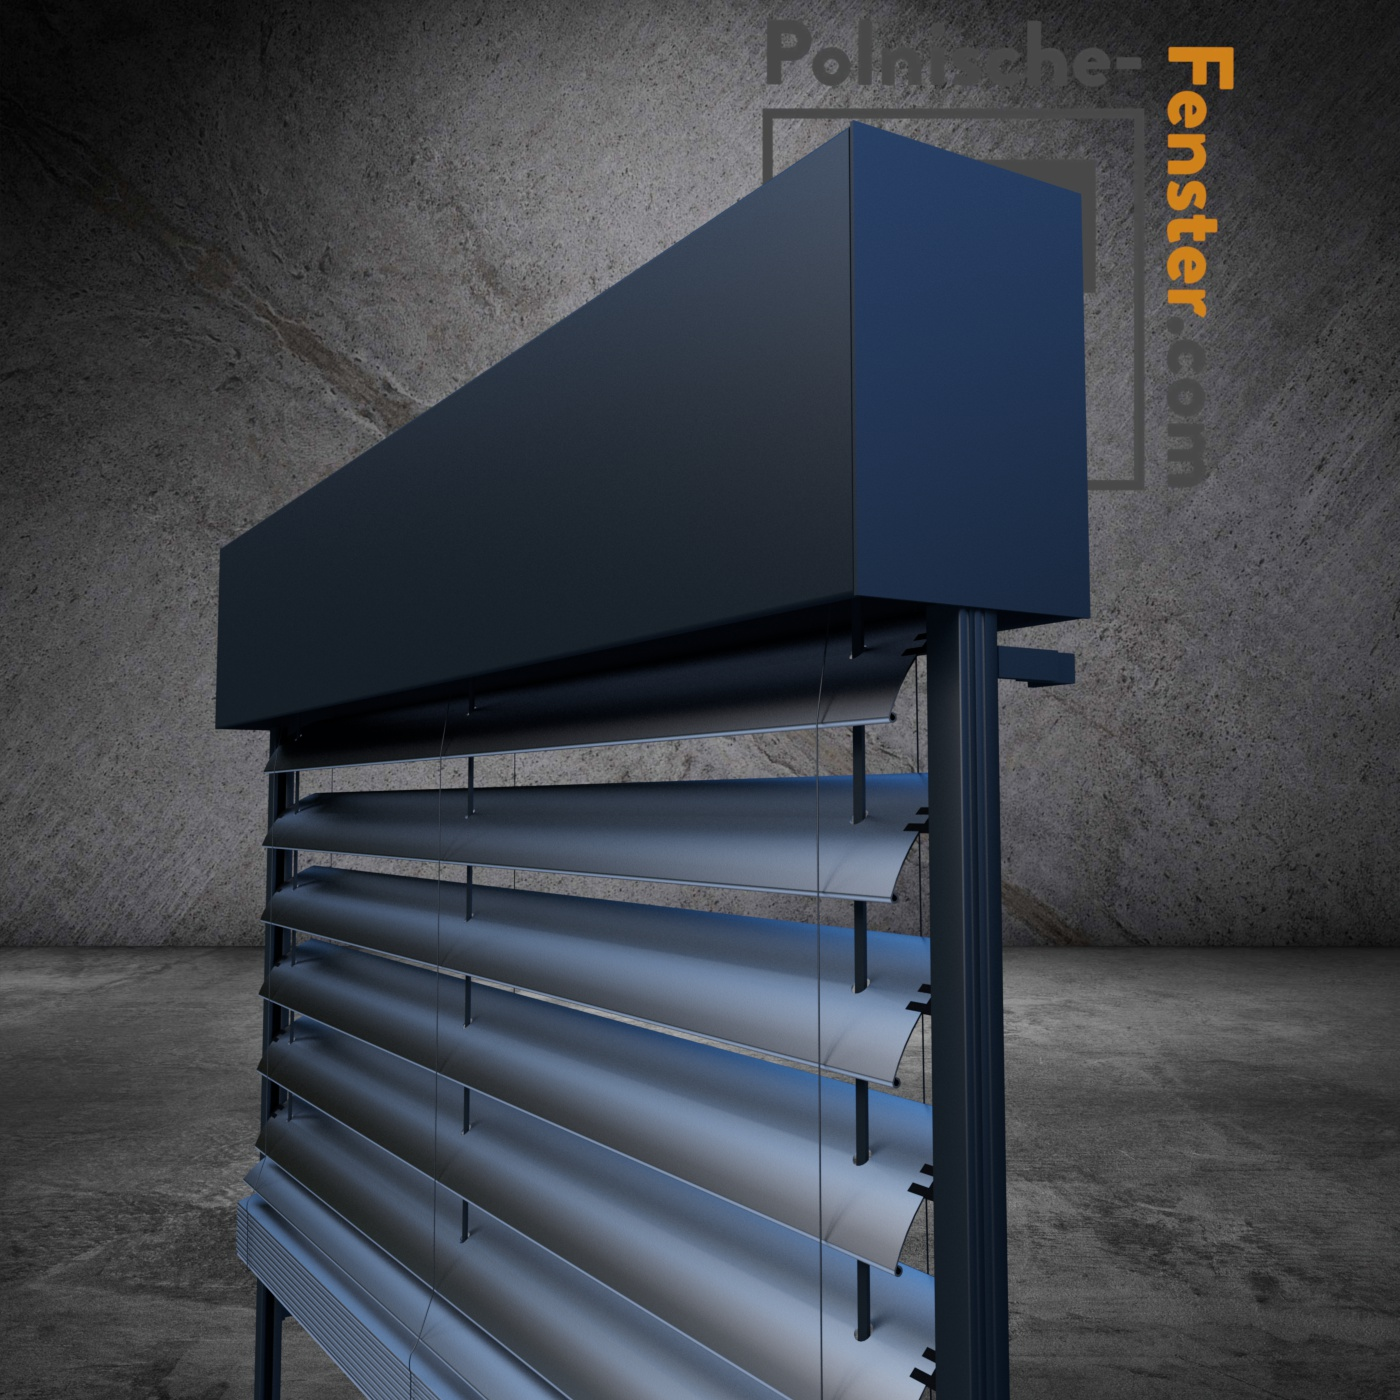
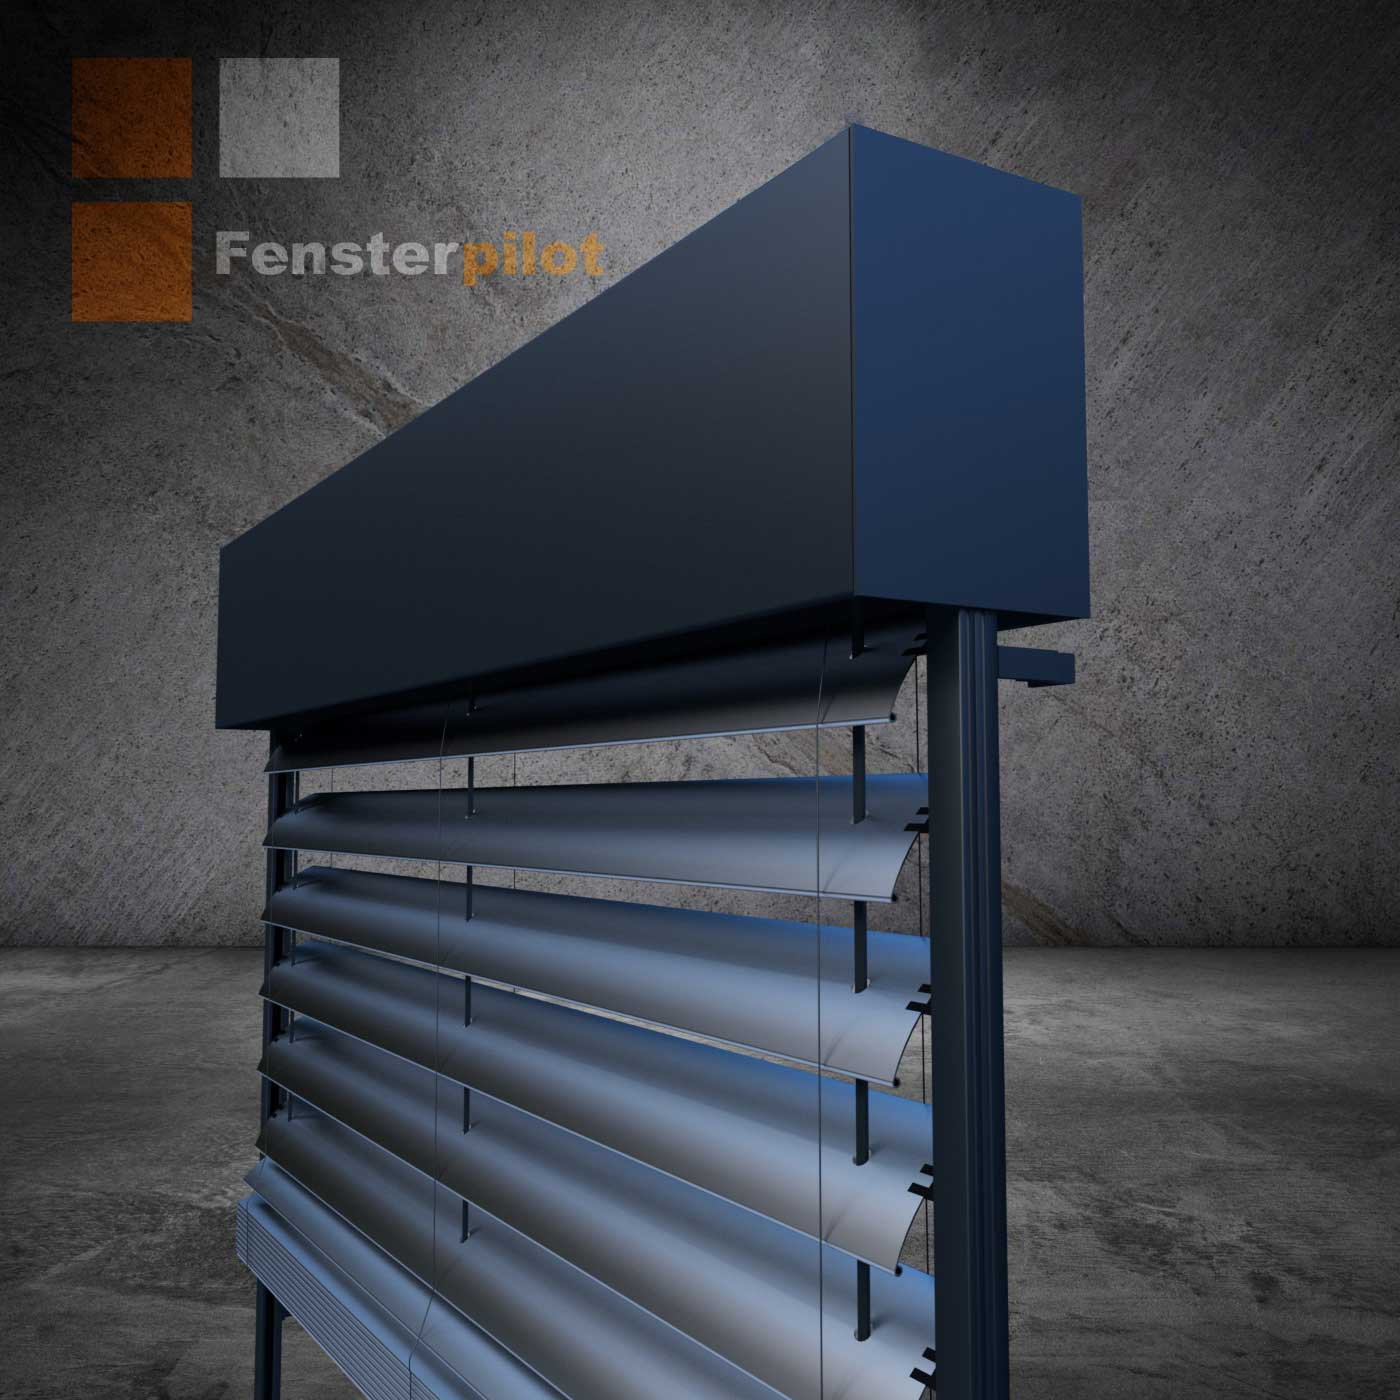
pics

Changed region(s): [[0.0307, 0.0307, 0.43, 0.2457], [0.7064, 0.0307, 0.8907, 0.3379], [0.5221, 0.0, 0.7371, 0.1229]]

diff --git a/pages/products/skp.js b/pages/products/skp.js
@@ -51,21 +51,7 @@ function Skp() {
     <ProductLink linktext="Aufsatz Rollläden" href="/products/ael" opis="Aluminium Lamellen, Motorsteuerung" pic="/pics/producticons/ael.png"/>,
   ];
 
-  const together = [
-    <ProductLink linktext="Schüco CT 70 Classic" href="/products/ct70" opis="Kunststoff 5 Kammer, 70 mm Einbautiefe" pic="/pics/producticons/ct70_classic.png"/>,
-    <ProductLink linktext="Schüco CT 70 Rondo" href="/products/ct70rondo" opis="Kunststoff 5 Kammer, 70 mm Einbautiefe" pic="/pics/producticons/ct70_rondo.png"/>,
-    <ProductLink linktext="Schüco Living MD" href="/products/living" opis="Kunststoff 7 Kammer, 82 mm Einbautiefe" pic="/pics/producticons/living.png"/>,
-    <ProductLink linktext="Kömmerling 70 AD" href="/products/k70" opis="Kunststoff 5 Kammer, 70 mm Einbautiefe" pic="/pics/producticons/k70.png"/>,
-    <ProductLink linktext="Kömmerling 76 AD" href="/products/k76ad" opis="Kunststoff 5 Kammer, 76 mm Einbautiefe" pic="/pics/producticons/k76_ad.png"/>,
-    <ProductLink linktext="Kömmerling 76 MD" href="/products/k76md" opis="Kunststoff 6 Kammer, 76 mm Einbautiefe" pic="/pics/producticons/k76_md.png"/>,
-    <ProductLink linktext="Kömmerling 88 MD" href="/products/k88" opis="Kunststoff 7 Kammer, 88 mm Einbautiefe" pic="/pics/producticons/k88.png"/>,
-    <ProductLink linktext="Ponzio PE 68N" href="/products/pe68" opis="Aluminium Ponzio PE 68" pic="/pics/producticons/pe68.png"/>,
-    <ProductLink linktext="Ponzio PE 78N" href="/products/pe78" opis="Aluminium Ponzio PE 78" pic="/pics/producticons/pe78.png"/>,
-    <ProductLink linktext="Aluprof MB 70 HI" href="/products/mb70" opis="Aluminium Aluprof MB 70" pic="/pics/producticons/mb70.png"/>,
-    <ProductLink linktext="Aluprof MB 86 SI" href="/products/mb86" opis="Aluminium Aluprof MB 86" pic="/pics/producticons/mb86.png"/>,
-    <ProductLink linktext="Schüco AWS 75 SI" href="/products/aws75" opis="Aluminium Schüco AWS 75" pic="/pics/producticons/aws75.png"/>,
-    <ProductLink linktext="Schüco AWS 90 SI" href="/products/aws90" opis="Aluminium Schüco AWS 90" pic="/pics/producticons/aws90.png"/>,
-  ];
+ 
 
   
   
@@ -74,7 +60,7 @@ function Skp() {
 
     <Fragment>
       <Head>
-        <title>Polnische Fenster Vorsatzrollladen SKP</title>
+        <title>Fensterpilot Vorsatzrollladen SKP</title>
         <meta name='description'
               content='Aluprof Vorsatzrollladen SKP Viertelrund. 3d Visualisierung'
         />
@@ -122,12 +108,7 @@ function Skp() {
         {similar}
       </Carousel>
 
-      <Carousel
-        show={Math.floor((size.width - 50) / 186)}
-        title="Unsere Fenster:"
-      >
-        {together}
-      </Carousel>
+      
      
     </Fragment>
   );

diff --git a/pages/products/sk.js b/pages/products/sk.js
@@ -53,21 +53,7 @@ function Sk() {
     <ProductLink linktext="Aufsatz Rollläden" href="/products/ael" opis="Aluminium Lamellen, Motorsteuerung" pic="/pics/producticons/ael.png"/>,
   ];
 
-  const together = [
-    <ProductLink linktext="Schüco CT 70 Classic" href="/products/ct70" opis="Kunststoff 5 Kammer, 70 mm Einbautiefe" pic="/pics/producticons/ct70_classic.png"/>,
-    <ProductLink linktext="Schüco CT 70 Rondo" href="/products/ct70rondo" opis="Kunststoff 5 Kammer, 70 mm Einbautiefe" pic="/pics/producticons/ct70_rondo.png"/>,
-    <ProductLink linktext="Schüco Living MD" href="/products/living" opis="Kunststoff 7 Kammer, 82 mm Einbautiefe" pic="/pics/producticons/living.png"/>,
-    <ProductLink linktext="Kömmerling 70 AD" href="/products/k70" opis="Kunststoff 5 Kammer, 70 mm Einbautiefe" pic="/pics/producticons/k70.png"/>,
-    <ProductLink linktext="Kömmerling 76 AD" href="/products/k76ad" opis="Kunststoff 5 Kammer, 76 mm Einbautiefe" pic="/pics/producticons/k76_ad.png"/>,
-    <ProductLink linktext="Kömmerling 76 MD" href="/products/k76md" opis="Kunststoff 6 Kammer, 76 mm Einbautiefe" pic="/pics/producticons/k76_md.png"/>,
-    <ProductLink linktext="Kömmerling 88 MD" href="/products/k88" opis="Kunststoff 7 Kammer, 88 mm Einbautiefe" pic="/pics/producticons/k88.png"/>,
-    <ProductLink linktext="Ponzio PE 68N" href="/products/pe68" opis="Aluminium Ponzio PE 68" pic="/pics/producticons/pe68.png"/>,
-    <ProductLink linktext="Ponzio PE 78N" href="/products/pe78" opis="Aluminium Ponzio PE 78" pic="/pics/producticons/pe78.png"/>,
-    <ProductLink linktext="Aluprof MB 70 HI" href="/products/mb70" opis="Aluminium Aluprof MB 70" pic="/pics/producticons/mb70.png"/>,
-    <ProductLink linktext="Aluprof MB 86 SI" href="/products/mb86" opis="Aluminium Aluprof MB 86" pic="/pics/producticons/mb86.png"/>,
-    <ProductLink linktext="Schüco AWS 75 SI" href="/products/aws75" opis="Aluminium Schüco AWS 75" pic="/pics/producticons/aws75.png"/>,
-    <ProductLink linktext="Schüco AWS 90 SI" href="/products/aws90" opis="Aluminium Schüco AWS 90" pic="/pics/producticons/aws90.png"/>,
-  ];
+  
 
   
   return (
@@ -75,7 +61,7 @@ function Sk() {
 
     <Fragment>
       <Head>
-        <title>Polnische Fenster Vorsatzrollladen SK</title>
+        <title>Fensterpilot Vorsatzrollladen SK</title>
         <meta name='description'
               content='Aluprof Vorsatzrollladen SK eckig. 3d Visualisierung'
         />
@@ -154,12 +140,7 @@ function Sk() {
         {similar}
       </Carousel>
 
-      <Carousel
-        show={Math.floor((size.width - 50) / 186)}
-        title="Unsere Fenster:"
-      >
-        {together}
-      </Carousel>
+      
      
     </Fragment>
   );

diff --git a/pages/products/sp.js b/pages/products/sp.js
@@ -52,26 +52,11 @@ function Sp() {
     <ProductLink linktext="Aufsatz Rollläden" href="/products/ael" opis="Aluminium Lamellen, Motorsteuerung" pic="/pics/producticons/ael.png"/>,
   ];
 
-  const together = [
-    <ProductLink linktext="Schüco CT 70 Classic" href="/products/ct70" opis="Kunststoff 5 Kammer, 70 mm Einbautiefe" pic="/pics/producticons/ct70_classic.png"/>,
-    <ProductLink linktext="Schüco CT 70 Rondo" href="/products/ct70rondo" opis="Kunststoff 5 Kammer, 70 mm Einbautiefe" pic="/pics/producticons/ct70_rondo.png"/>,
-    <ProductLink linktext="Schüco Living MD" href="/products/living" opis="Kunststoff 7 Kammer, 82 mm Einbautiefe" pic="/pics/producticons/living.png"/>,
-    <ProductLink linktext="Kömmerling 70 AD" href="/products/k70" opis="Kunststoff 5 Kammer, 70 mm Einbautiefe" pic="/pics/producticons/k70.png"/>,
-    <ProductLink linktext="Kömmerling 76 AD" href="/products/k76ad" opis="Kunststoff 5 Kammer, 76 mm Einbautiefe" pic="/pics/producticons/k76_ad.png"/>,
-    <ProductLink linktext="Kömmerling 76 MD" href="/products/k76md" opis="Kunststoff 6 Kammer, 76 mm Einbautiefe" pic="/pics/producticons/k76_md.png"/>,
-    <ProductLink linktext="Kömmerling 88 MD" href="/products/k88" opis="Kunststoff 7 Kammer, 88 mm Einbautiefe" pic="/pics/producticons/k88.png"/>,
-    <ProductLink linktext="Ponzio PE 68N" href="/products/pe68" opis="Aluminium Ponzio PE 68" pic="/pics/producticons/pe68.png"/>,
-    <ProductLink linktext="Ponzio PE 78N" href="/products/pe78" opis="Aluminium Ponzio PE 78" pic="/pics/producticons/pe78.png"/>,
-    <ProductLink linktext="Aluprof MB 70 HI" href="/products/mb70" opis="Aluminium Aluprof MB 70" pic="/pics/producticons/mb70.png"/>,
-    <ProductLink linktext="Aluprof MB 86 SI" href="/products/mb86" opis="Aluminium Aluprof MB 86" pic="/pics/producticons/mb86.png"/>,
-    <ProductLink linktext="Schüco AWS 75 SI" href="/products/aws75" opis="Aluminium Schüco AWS 75" pic="/pics/producticons/aws75.png"/>,
-    <ProductLink linktext="Schüco AWS 90 SI" href="/products/aws90" opis="Aluminium Schüco AWS 90" pic="/pics/producticons/aws90.png"/>,
-  ];
-
+ 
   return (
     <Fragment>
       <Head>
-        <title>Polnische Fenster Unterputz Vorsatzrollladen SP</title>
+        <title>Fensterpilot Unterputz Vorsatzrollladen SP</title>
         <meta
           name="description"
           content="Aluprof Unterputz Vorsatzrollladen SP. 3d Visualisierung"
@@ -141,12 +126,7 @@ function Sp() {
         {similar}
       </Carousel>
 
-      <Carousel
-        show={Math.floor((size.width - 50) / 186)}
-        title="Unsere Fenster:"
-      >
-        {together}
-      </Carousel>
+     
     </Fragment>
   );
 }

diff --git a/pages/products/sko.js b/pages/products/sko.js
@@ -52,28 +52,13 @@ function Sko() {
     <ProductLink linktext="Aufsatz Rollläden" href="/products/ael" opis="Aluminium Lamellen, Motorsteuerung" pic="/pics/producticons/ael.png"/>,
   ];
 
-  const together = [
-    <ProductLink linktext="Schüco CT 70 Classic" href="/products/ct70" opis="Kunststoff 5 Kammer, 70 mm Einbautiefe" pic="/pics/producticons/ct70_classic.png"/>,
-    <ProductLink linktext="Schüco CT 70 Rondo" href="/products/ct70rondo" opis="Kunststoff 5 Kammer, 70 mm Einbautiefe" pic="/pics/producticons/ct70_rondo.png"/>,
-    <ProductLink linktext="Schüco Living MD" href="/products/living" opis="Kunststoff 7 Kammer, 82 mm Einbautiefe" pic="/pics/producticons/living.png"/>,
-    <ProductLink linktext="Kömmerling 70 AD" href="/products/k70" opis="Kunststoff 5 Kammer, 70 mm Einbautiefe" pic="/pics/producticons/k70.png"/>,
-    <ProductLink linktext="Kömmerling 76 AD" href="/products/k76ad" opis="Kunststoff 5 Kammer, 76 mm Einbautiefe" pic="/pics/producticons/k76_ad.png"/>,
-    <ProductLink linktext="Kömmerling 76 MD" href="/products/k76md" opis="Kunststoff 6 Kammer, 76 mm Einbautiefe" pic="/pics/producticons/k76_md.png"/>,
-    <ProductLink linktext="Kömmerling 88 MD" href="/products/k88" opis="Kunststoff 7 Kammer, 88 mm Einbautiefe" pic="/pics/producticons/k88.png"/>,
-    <ProductLink linktext="Ponzio PE 68N" href="/products/pe68" opis="Aluminium Ponzio PE 68" pic="/pics/producticons/pe68.png"/>,
-    <ProductLink linktext="Ponzio PE 78N" href="/products/pe78" opis="Aluminium Ponzio PE 78" pic="/pics/producticons/pe78.png"/>,
-    <ProductLink linktext="Aluprof MB 70 HI" href="/products/mb70" opis="Aluminium Aluprof MB 70" pic="/pics/producticons/mb70.png"/>,
-    <ProductLink linktext="Aluprof MB 86 SI" href="/products/mb86" opis="Aluminium Aluprof MB 86" pic="/pics/producticons/mb86.png"/>,
-    <ProductLink linktext="Schüco AWS 75 SI" href="/products/aws75" opis="Aluminium Schüco AWS 75" pic="/pics/producticons/aws75.png"/>,
-    <ProductLink linktext="Schüco AWS 90 SI" href="/products/aws90" opis="Aluminium Schüco AWS 90" pic="/pics/producticons/aws90.png"/>,
-  ];
-
+ 
   return (
 
 
     <Fragment>
       <Head>
-        <title>Polnische Fenster Vorsatzrollladen SKO</title>
+        <title>Fensterpilot Vorsatzrollladen SKO</title>
         <meta name='description'
               content='Aluprof Vorsatzrollladen SKO halbrund. 3d Visualisierung'
         />
@@ -121,12 +106,7 @@ function Sko() {
         {similar}
       </Carousel>
 
-      <Carousel
-        show={Math.floor((size.width - 50) / 186)}
-        title="Unsere Fenster:"
-      >
-        {together}
-      </Carousel>
+      
       
     </Fragment>
   );

diff --git a/pages/products/ael.js b/pages/products/ael.js
@@ -51,28 +51,14 @@ function Ael() {
     <ProductLink linktext="Vorsatz Rollläden SP" href="/products/sp" opis="Aluminium Lamellen, Unterputz Kasten" pic="/pics/producticons/vsr_sp.png"/>,
   ];
 
-  const together = [
-    <ProductLink linktext="Schüco CT 70 Classic" href="/products/ct70" opis="Kunststoff 5 Kammer, 70 mm Einbautiefe" pic="/pics/producticons/ct70_classic.png"/>,
-    <ProductLink linktext="Schüco CT 70 Rondo" href="/products/ct70rondo" opis="Kunststoff 5 Kammer, 70 mm Einbautiefe" pic="/pics/producticons/ct70_rondo.png"/>,
-    <ProductLink linktext="Schüco Living MD" href="/products/living" opis="Kunststoff 7 Kammer, 82 mm Einbautiefe" pic="/pics/producticons/living.png"/>,
-    <ProductLink linktext="Kömmerling 70 AD" href="/products/k70" opis="Kunststoff 5 Kammer, 70 mm Einbautiefe" pic="/pics/producticons/k70.png"/>,
-    <ProductLink linktext="Kömmerling 76 AD" href="/products/k76ad" opis="Kunststoff 5 Kammer, 76 mm Einbautiefe" pic="/pics/producticons/k76_ad.png"/>,
-    <ProductLink linktext="Kömmerling 76 MD" href="/products/k76md" opis="Kunststoff 6 Kammer, 76 mm Einbautiefe" pic="/pics/producticons/k76_md.png"/>,
-    <ProductLink linktext="Kömmerling 88 MD" href="/products/k88" opis="Kunststoff 7 Kammer, 88 mm Einbautiefe" pic="/pics/producticons/k88.png"/>,
-    <ProductLink linktext="Ponzio PE 68N" href="/products/pe68" opis="Aluminium Ponzio PE 68" pic="/pics/producticons/pe68.png"/>,
-    <ProductLink linktext="Ponzio PE 78N" href="/products/pe78" opis="Aluminium Ponzio PE 78" pic="/pics/producticons/pe78.png"/>,
-    <ProductLink linktext="Aluprof MB 70 HI" href="/products/mb70" opis="Aluminium Aluprof MB 70" pic="/pics/producticons/mb70.png"/>,
-    <ProductLink linktext="Aluprof MB 86 SI" href="/products/mb86" opis="Aluminium Aluprof MB 86" pic="/pics/producticons/mb86.png"/>,
-    <ProductLink linktext="Schüco AWS 75 SI" href="/products/aws75" opis="Aluminium Schüco AWS 75" pic="/pics/producticons/aws75.png"/>,
-    <ProductLink linktext="Schüco AWS 90 SI" href="/products/aws90" opis="Aluminium Schüco AWS 90" pic="/pics/producticons/aws90.png"/>,
-  ];
+  
   
   return (
 
 
     <Fragment>
       <Head>
-        <title>Polnische Fenster Aufsatzrollladen</title>
+        <title>Fensterpilot Aufsatzrollladen</title>
         <meta name='description'
               content='Aluprof Opoterm Aufsatzrollladen. 3d Visualisierung'
         />
@@ -123,12 +109,7 @@ function Ael() {
         {similar}
       </Carousel>
 
-      <Carousel
-        show={Math.floor((size.width - 50) / 186)}
-        title="Unsere Fenster:"
-      >
-        {together}
-      </Carousel>
+     
      
     </Fragment>
   );

diff --git a/pages/products/raf.js b/pages/products/raf.js
@@ -54,27 +54,12 @@ function Raf() {
     <ProductLink linktext="Vorsatz Rollläden SP" href="/products/sp" opis="Aluminium Lamellen, Unterputz Kasten" pic="/pics/producticons/vsr_sp.png"/>,
   ];
 
-  const together = [
-    <ProductLink linktext="Schüco CT 70 Classic" href="/products/ct70" opis="Kunststoff 5 Kammer, 70 mm Einbautiefe" pic="/pics/producticons/ct70_classic.png"/>,
-    <ProductLink linktext="Schüco CT 70 Rondo" href="/products/ct70rondo" opis="Kunststoff 5 Kammer, 70 mm Einbautiefe" pic="/pics/producticons/ct70_rondo.png"/>,
-    <ProductLink linktext="Schüco Living MD" href="/products/living" opis="Kunststoff 7 Kammer, 82 mm Einbautiefe" pic="/pics/producticons/living.png"/>,
-    <ProductLink linktext="Kömmerling 70 AD" href="/products/k70" opis="Kunststoff 5 Kammer, 70 mm Einbautiefe" pic="/pics/producticons/k70.png"/>,
-    <ProductLink linktext="Kömmerling 76 AD" href="/products/k76ad" opis="Kunststoff 5 Kammer, 76 mm Einbautiefe" pic="/pics/producticons/k76_ad.png"/>,
-    <ProductLink linktext="Kömmerling 76 MD" href="/products/k76md" opis="Kunststoff 6 Kammer, 76 mm Einbautiefe" pic="/pics/producticons/k76_md.png"/>,
-    <ProductLink linktext="Kömmerling 88 MD" href="/products/k88" opis="Kunststoff 7 Kammer, 88 mm Einbautiefe" pic="/pics/producticons/k88.png"/>,
-    <ProductLink linktext="Ponzio PE 68N" href="/products/pe68" opis="Aluminium Ponzio PE 68" pic="/pics/producticons/pe68.png"/>,
-    <ProductLink linktext="Ponzio PE 78N" href="/products/pe78" opis="Aluminium Ponzio PE 78" pic="/pics/producticons/pe78.png"/>,
-    <ProductLink linktext="Aluprof MB 70 HI" href="/products/mb70" opis="Aluminium Aluprof MB 70" pic="/pics/producticons/mb70.png"/>,
-    <ProductLink linktext="Aluprof MB 86 SI" href="/products/mb86" opis="Aluminium Aluprof MB 86" pic="/pics/producticons/mb86.png"/>,
-    <ProductLink linktext="Schüco AWS 75 SI" href="/products/aws75" opis="Aluminium Schüco AWS 75" pic="/pics/producticons/aws75.png"/>,
-    <ProductLink linktext="Schüco AWS 90 SI" href="/products/aws90" opis="Aluminium Schüco AWS 90" pic="/pics/producticons/aws90.png"/>,
-  ];
-
+ 
 
   return (
     <Fragment>
       <Head>
-        <title>Polnische Fenster Raffstore Beschattung</title>
+        <title>Fensterpilot Raffstore Beschattung</title>
         <meta
           name="description"
           content="Raffstoren C80 und Z90. 3d Visualisierung"
@@ -170,12 +155,7 @@ function Raf() {
         {similar}
       </Carousel>
 
-      <Carousel
-        show={Math.floor((size.width - 50) / 186)}
-        title="Unsere Fenster:"
-      >
-        {together}
-      </Carousel>
+     
     </Fragment>
   );
 }
